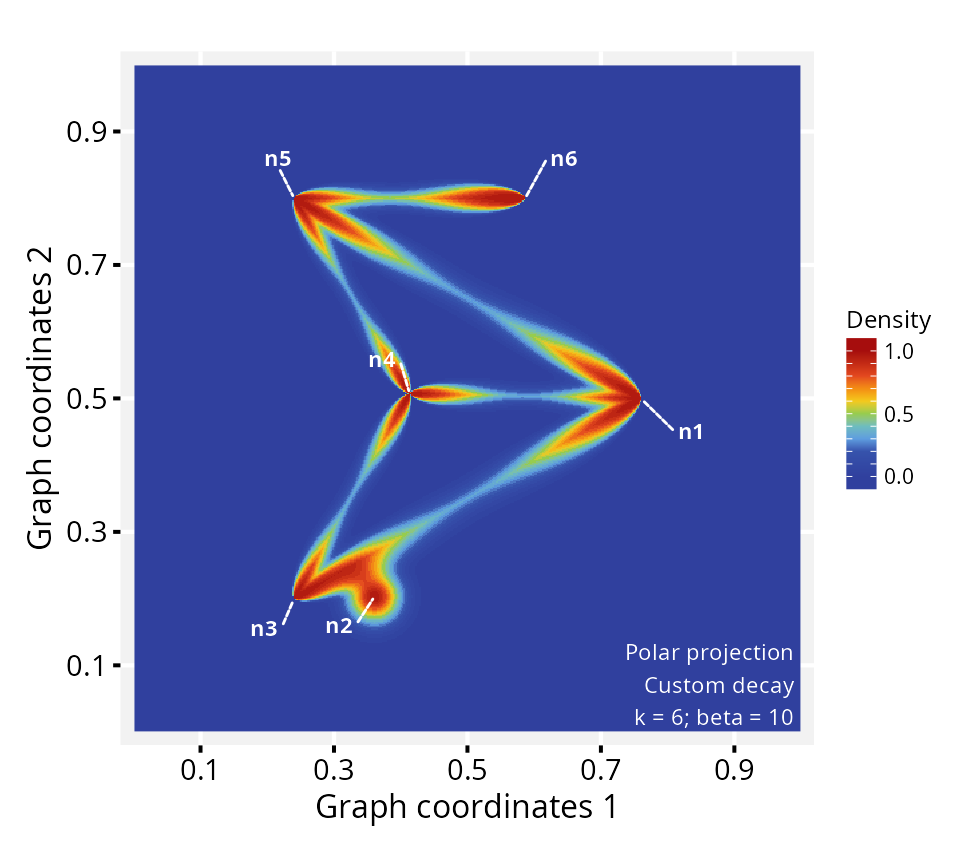
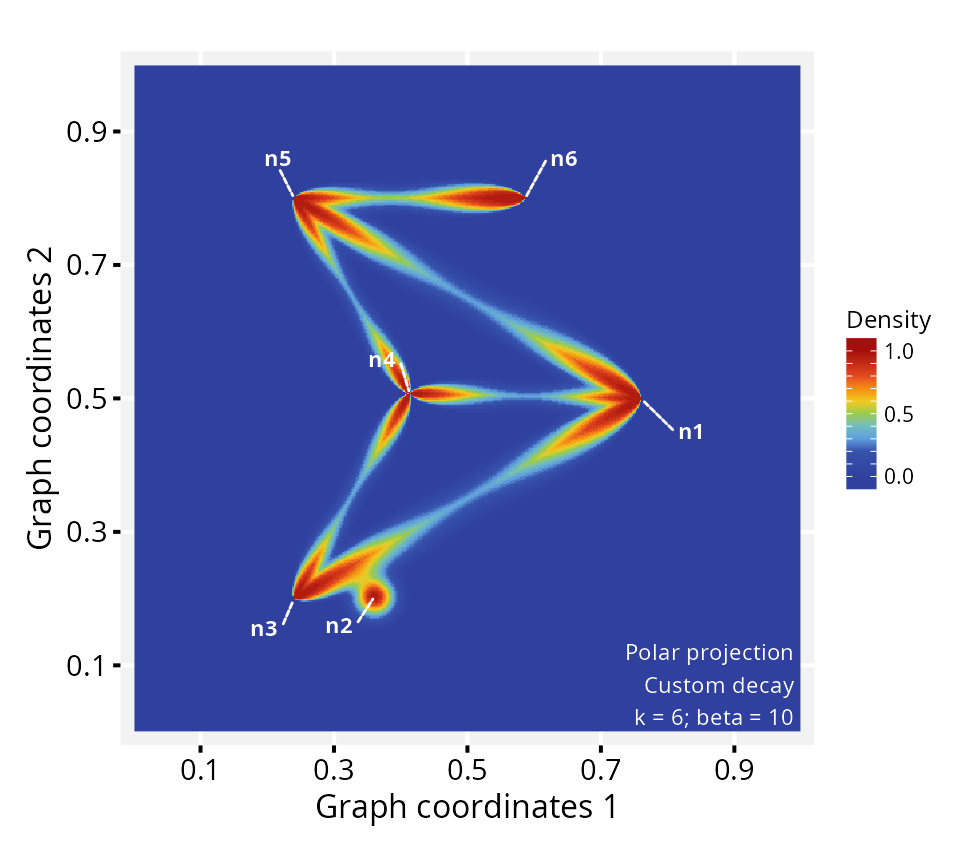
regular maintenance

Changed region(s): [[0.3438, 0.625, 0.4375, 0.75]]

diff --git a/docs/articles/modeling-signal-decay.html b/docs/articles/modeling-signal-decay.html
@@ -78,7 +78,7 @@
                         <h4 data-toc-skip class="author">Sysbiolab
 Team</h4>
             
-            <h4 data-toc-skip class="date">2026-06-20</h4>
+            <h4 data-toc-skip class="date">2026-06-21</h4>
       
       <small class="dont-index">Source: <a href="https://github.com/sysbiolab/PathwaySpace/blob/HEAD/vignettes/articles/modeling-signal-decay.Rmd"><code>vignettes/articles/modeling-signal-decay.Rmd</code></a></small>
       <div class="d-none name"><code>modeling-signal-decay.Rmd</code></div>
@@ -183,7 +183,7 @@ returns a decay function with customized parameters.</p>
 <span><span class="co">#&gt;     y &lt;- signal * 0.25^((x/0.75)^2)</span></span>
 <span><span class="co">#&gt;     return(y)</span></span>
 <span><span class="co">#&gt; }</span></span>
-<span><span class="co">#&gt; &lt;environment: 0x5e2b7cfd2240&gt;</span></span>
+<span><span class="co">#&gt; &lt;environment: 0x618ceb071200&gt;</span></span>
 <span><span class="co">#&gt; attr(,"name")</span></span>
 <span><span class="co">#&gt; [1] "weibullDecay"</span></span></code></pre></div>
 <p></p>

diff --git a/docs/articles/spatial-transcriptomics.html b/docs/articles/spatial-transcriptomics.html
@@ -80,7 +80,7 @@ projections on spot coordinates</h3>
                         <h4 data-toc-skip class="author">Sysbiolab
 Team</h4>
             
-            <h4 data-toc-skip class="date">2026-06-20</h4>
+            <h4 data-toc-skip class="date">2026-06-21</h4>
       
       <small class="dont-index">Source: <a href="https://github.com/sysbiolab/PathwaySpace/blob/HEAD/vignettes/articles/spatial-transcriptomics.Rmd"><code>vignettes/articles/spatial-transcriptomics.Rmd</code></a></small>
       <div class="d-none name"><code>spatial-transcriptomics.Rmd</code></div>
@@ -188,7 +188,7 @@ tissue image and normalize node coordinates to the image space.</p>
 <span><span class="va">gs</span> <span class="op">&lt;-</span> <span class="fu"><a href="https://sysbiolab.github.io/RGraphSpace/reference/as.GraphSpace.html" class="external-link">as.GraphSpace</a></span><span class="op">(</span><span class="va">seurat_obj</span>, space <span class="op">=</span> <span class="st">"spatial"</span>, scale <span class="op">=</span> <span class="st">"lowres"</span><span class="op">)</span></span>
 <span></span>
 <span><span class="co"># Seurat object converted to GraphSpace:</span></span>
-<span><span class="co"># ℹ space=spatial, layer=default, features=17668, cells=2696, scale="lowres"</span></span>
+<span><span class="co"># ℹ space=spatial, layer=default, features=17668, samples=2696, scale="lowres"</span></span>
 <span><span class="co"># Node spatial boundaries:</span></span>
 <span><span class="co"># ℹ x: [76, 493] (cols)</span></span>
 <span><span class="co"># ℹ y: [138, 541] (rows)</span></span></code></pre></div>

diff --git a/docs/articles/PathwaySpace.html b/docs/articles/PathwaySpace.html
@@ -78,7 +78,7 @@
                         <h4 data-toc-skip class="author">Sysbiolab
 Team</h4>
             
-            <h4 data-toc-skip class="date">2026-06-20</h4>
+            <h4 data-toc-skip class="date">2026-06-21</h4>
       
       <small class="dont-index">Source: <a href="https://github.com/sysbiolab/PathwaySpace/blob/HEAD/vignettes/PathwaySpace.Rmd"><code>vignettes/PathwaySpace.Rmd</code></a></small>
       <div class="d-none name"><code>PathwaySpace.Rmd</code></div>

diff --git a/docs/articles/get-started.html b/docs/articles/get-started.html
@@ -78,7 +78,7 @@
                         <h4 data-toc-skip class="author">Sysbiolab
 Team</h4>
             
-            <h4 data-toc-skip class="date">2026-06-20</h4>
+            <h4 data-toc-skip class="date">2026-06-21</h4>
       
       <small class="dont-index">Source: <a href="https://github.com/sysbiolab/PathwaySpace/blob/HEAD/vignettes/articles/get-started.Rmd"><code>vignettes/articles/get-started.Rmd</code></a></small>
       <div class="d-none name"><code>get-started.Rmd</code></div>

diff --git a/docs/articles/install.html b/docs/articles/install.html
@@ -76,7 +76,7 @@
 
       <h1>Installation Instructions</h1>
             
-            <h4 data-toc-skip class="date">2026-06-20</h4>
+            <h4 data-toc-skip class="date">2026-06-21</h4>
       
       <small class="dont-index">Source: <a href="https://github.com/sysbiolab/PathwaySpace/blob/HEAD/vignettes/articles/install.Rmd"><code>vignettes/articles/install.Rmd</code></a></small>
       <div class="d-none name"><code>install.Rmd</code></div>

diff --git a/docs/articles/overview.html b/docs/articles/overview.html
@@ -78,7 +78,7 @@
                         <h4 data-toc-skip class="author">Sysbiolab
 Team</h4>
             
-            <h4 data-toc-skip class="date">2026-06-20</h4>
+            <h4 data-toc-skip class="date">2026-06-21</h4>
       
       <small class="dont-index">Source: <a href="https://github.com/sysbiolab/PathwaySpace/blob/HEAD/vignettes/articles/overview.Rmd"><code>vignettes/articles/overview.Rmd</code></a></small>
       <div class="d-none name"><code>overview.Rmd</code></div>

diff --git a/docs/articles/projection-methods.html b/docs/articles/projection-methods.html
@@ -80,7 +80,7 @@
                         <h4 data-toc-skip class="author">Sysbiolab
 Team</h4>
             
-            <h4 data-toc-skip class="date">2026-06-20</h4>
+            <h4 data-toc-skip class="date">2026-06-21</h4>
       
       <small class="dont-index">Source: <a href="https://github.com/sysbiolab/PathwaySpace/blob/HEAD/vignettes/articles/projection-methods.Rmd"><code>vignettes/articles/projection-methods.Rmd</code></a></small>
       <div class="d-none name"><code>projection-methods.Rmd</code></div>

diff --git a/docs/articles/signal-aggregation-rules.html b/docs/articles/signal-aggregation-rules.html
@@ -78,7 +78,7 @@
                         <h4 data-toc-skip class="author">Sysbiolab
 Team</h4>
             
-            <h4 data-toc-skip class="date">2026-06-20</h4>
+            <h4 data-toc-skip class="date">2026-06-21</h4>
       
       <small class="dont-index">Source: <a href="https://github.com/sysbiolab/PathwaySpace/blob/HEAD/vignettes/articles/signal-aggregation-rules.Rmd"><code>vignettes/articles/signal-aggregation-rules.Rmd</code></a></small>
       <div class="d-none name"><code>signal-aggregation-rules.Rmd</code></div>

diff --git a/docs/articles/sparse-feature-sets.html b/docs/articles/sparse-feature-sets.html
@@ -78,7 +78,7 @@
                         <h4 data-toc-skip class="author">Sysbiolab
 Team</h4>
             
-            <h4 data-toc-skip class="date">2026-06-20</h4>
+            <h4 data-toc-skip class="date">2026-06-21</h4>
       
       <small class="dont-index">Source: <a href="https://github.com/sysbiolab/PathwaySpace/blob/HEAD/vignettes/articles/sparse-feature-sets.Rmd"><code>vignettes/articles/sparse-feature-sets.Rmd</code></a></small>
       <div class="d-none name"><code>sparse-feature-sets.Rmd</code></div>

diff --git a/docs/reference/vertexSignal-accessors.html b/docs/reference/vertexSignal-accessors.html
@@ -184,7 +184,7 @@ name (see <code><a href="https://sysbiolab.github.io/RGraphSpace/reference/Graph
 <span class="r-out co"><span class="r-pr">#&gt;</span>     y &lt;- signal * 0.001^((x/0.15)^1.05)</span>
 <span class="r-out co"><span class="r-pr">#&gt;</span>     return(y)</span>
 <span class="r-out co"><span class="r-pr">#&gt;</span> }</span>
-<span class="r-out co"><span class="r-pr">#&gt;</span> &lt;environment: 0x5cca8806a4f0&gt;</span>
+<span class="r-out co"><span class="r-pr">#&gt;</span> &lt;environment: 0x5eb1fcb802a8&gt;</span>
 <span class="r-out co"><span class="r-pr">#&gt;</span> attr(,"name")</span>
 <span class="r-out co"><span class="r-pr">#&gt;</span> [1] "weibullDecay"</span>
 <span class="r-in"><span></span></span>

diff --git a/docs/articles/modeling-signal-decay.md b/docs/articles/modeling-signal-decay.md
@@ -113,7 +113,7 @@ weibullDecay(decay = 0.25, shape = 2, pdist = 0.75)
 #>     y <- signal * 0.25^((x/0.75)^2)
 #>     return(y)
 #> }
-#> <environment: 0x5e2b7cfd2240>
+#> <environment: 0x618ceb071200>
 #> attr(,"name")
 #> [1] "weibullDecay"
 ```

diff --git a/docs/articles/spatial-transcriptomics.md b/docs/articles/spatial-transcriptomics.md
@@ -121,7 +121,7 @@ the tissue image and normalize node coordinates to the image space.
 gs <- as.GraphSpace(seurat_obj, space = "spatial", scale = "lowres")
 
 # Seurat object converted to GraphSpace:
-# ℹ space=spatial, layer=default, features=17668, cells=2696, scale="lowres"
+# ℹ space=spatial, layer=default, features=17668, samples=2696, scale="lowres"
 # Node spatial boundaries:
 # ℹ x: [76, 493] (cols)
 # ℹ y: [138, 541] (rows)